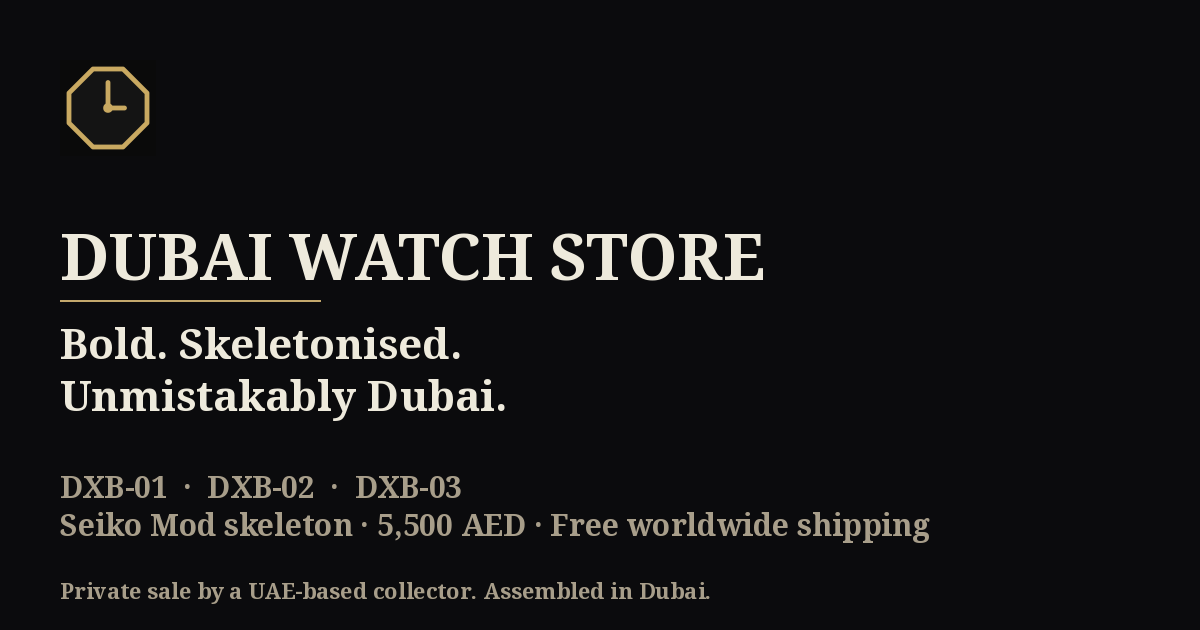
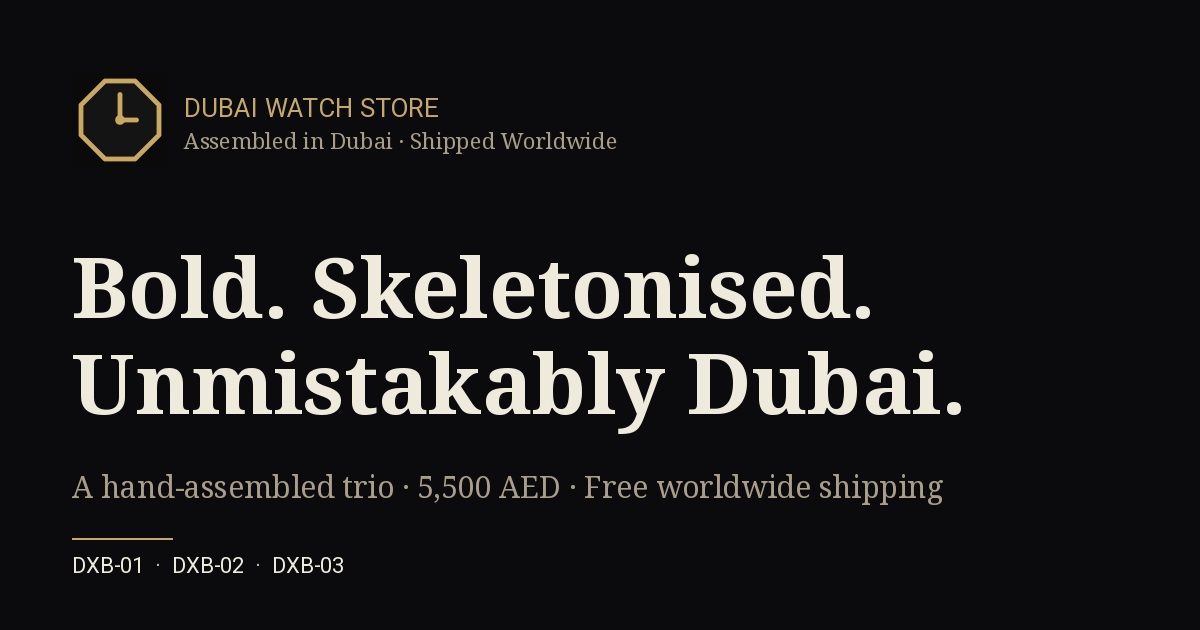
copy: strip Seiko brand references — trademark hygiene
Rewrite hero subtitle, about body, product brand fields, meta/OG/Twitter
descriptions, Organization JSON-LD, llms.txt summary and blog posts to
drop «Seiko Mod» and «TMI (Seiko Group)» language. Product brand now
reads «Dubai Series»; movements referenced by neutral TMI part numbers
(NH70/71/72A). Regenerate public/og.png without the previous
«Seiko Mod skeleton» tagline; add reproducible scripts/gen-og.py.

We do not sell Seiko-branded product; the phrase «Seiko Mod» is a
community label that risks trademark scrutiny on marketing surfaces.

Changed region(s): [[0.0308, 0.3619, 0.8017, 0.6937], [0.0308, 0.754, 0.8017, 0.9651], [0.0308, 0.0905, 0.5242, 0.2714]]

diff --git a/content/blog/posts.ts b/content/blog/posts.ts
@@ -27,7 +27,7 @@ export const posts: Post[] = [
 
 ## The Case
 
-The concept rests on a recognisable, brutal design — integrated bracelet, textured case, presence on the wrist. But the true soul of each piece lives beneath a transparent case back. For this trio we chose high-precision Japanese movements from **TMI (Seiko Group)**, respected by watch enthusiasts worldwide for uncompromising reliability.
+The concept rests on a recognisable, brutal design — integrated bracelet, textured case, presence on the wrist. But the true soul of each piece lives beneath a transparent case back. For this trio we chose high-precision Japanese automatic movements from **TMI (Time Module Inc., Japan)**, respected by watch enthusiasts worldwide for uncompromising reliability.
 
 ## Three Calibers, Three Finishes
 
@@ -46,7 +46,7 @@ This mini-release blurs the line between mass watchmaking and the high art of cu
 
 ## الهيكل
 
-يستند التصميم إلى لغة قوية ومميّزة — سوار مدمج، وعلبة بلمسة نسيجية، وحضور واضح على المعصم. لكن روح كل قطعة تسكن خلف غطاء خلفي شفاف. اخترنا لهذه الثلاثية حركات يابانية عالية الدقة من **TMI (Seiko Group)**، تحظى بتقدير هواة الساعات حول العالم لموثوقيتها التي لا تتزحزح.
+يستند التصميم إلى لغة قوية ومميّزة — سوار مدمج، وعلبة بلمسة نسيجية، وحضور واضح على المعصم. لكن روح كل قطعة تسكن خلف غطاء خلفي شفاف. اخترنا لهذه الثلاثية حركات يابانية أوتوماتيكية عالية الدقة من **TMI (Time Module Inc.، اليابان)**، تحظى بتقدير هواة الساعات حول العالم لموثوقيتها التي لا تتزحزح.
 
 ## ثلاث حركات. ثلاث لمسات.
 
@@ -77,7 +77,7 @@ This mini-release blurs the line between mass watchmaking and the high art of cu
     body: {
       en: `Every watch in this collection has been chosen by hand, from Dubai. The Journal is where I write about the **movements** inside, the finishing, and the small details worth knowing before you wear one.
 
-This is not a catalogue. It is a slow record of what makes a well-executed Seiko Mod worth its price:
+This is not a catalogue. It is a slow record of what makes a well-executed hand-assembled skeleton worth its price:
 
 - the depth of a good *frosted* finish
 - the tolerances of the [NH72A caliber](https://calibercorner.com/tmi-caliber-nh72a/)
@@ -86,7 +86,7 @@ This is not a catalogue. It is a slow record of what makes a well-executed Seiko
 New notes appear when there is something worth saying. No SEO fluff, no filler.`,
       ar: `اختيرت كل ساعة في هذه المجموعة يدويًا من دبي. هذه المدوّنة مكان لأكتب فيه عن **الحركات** بداخلها، والصياغة، والتفاصيل الصغيرة التي تستحق المعرفة قبل ارتدائها.
 
-هذه ليست فهرسًا. إنها سجل بطيء لما يجعل ساعة Seiko Mod مُتقنة تستحق سعرها:
+هذه ليست فهرسًا. إنها سجل بطيء لما يجعل ساعة مُجمَّعة يدوياً بميناء مكشوف مُتقنة تستحق سعرها:
 
 - عمق لمسة *الصنفرة* الجيدة
 - تفاوتات حركة [NH72A](https://calibercorner.com/tmi-caliber-nh72a/)

diff --git a/app/[locale]/layout.tsx b/app/[locale]/layout.tsx
@@ -24,7 +24,7 @@ export async function generateMetadata({
   return {
     title: 'Dubai Watch Store — Assembled in Dubai, Shipped Worldwide',
     description:
-      'Trio of Seiko Mod skeleton watches (DXB-01/02/03) assembled in Dubai. TMI NH70/71/72A automatics. 5,500 AED · free worldwide tracked shipping.',
+      'Trio of hand-assembled skeleton watches (DXB-01/02/03) built in Dubai on Japanese TMI NH70/71/72A automatics. 5,500 AED · free worldwide tracked shipping.',
     metadataBase: new URL(SITE_URL),
     // Canonical и hreflang для каждой локали — Google больше не считает
     // en/ar «копиями без выбранного каноникала».
@@ -39,7 +39,7 @@ export async function generateMetadata({
     openGraph: {
       title: 'Dubai Watch Store — Bold. Skeletonised. Unmistakably Dubai.',
       description:
-        'A limited trio of Seiko Mod skeleton timepieces. Assembled in Dubai. Free worldwide shipping.',
+        'A limited trio of hand-assembled skeleton timepieces. Built in Dubai. Free worldwide shipping.',
       url: `${SITE_URL}/${locale}`,
       siteName: 'Dubai Watch Store',
       type: 'website',
@@ -49,7 +49,7 @@ export async function generateMetadata({
           url: '/og.png',
           width: 1200,
           height: 630,
-          alt: 'Dubai Watch Store — Seiko Mod skeleton trio assembled in Dubai',
+          alt: 'Dubai Watch Store — hand-assembled skeleton trio built in Dubai',
         },
       ],
     },
@@ -57,7 +57,7 @@ export async function generateMetadata({
       card: 'summary_large_image',
       title: 'Dubai Watch Store',
       description:
-        'A limited trio of Seiko Mod skeleton timepieces. Assembled in Dubai.',
+        'A limited trio of hand-assembled skeleton timepieces. Built in Dubai.',
       images: ['/og.png'],
     },
     verification: {

diff --git a/components/JsonLd.tsx b/components/JsonLd.tsx
@@ -63,7 +63,7 @@ export async function HomeJsonLd({ locale }: { locale: string }) {
       url: SITE_URL,
       logo: `${SITE_URL}/apple-icon.png`,
       description:
-        'Private UAE-based seller of the Dubai Series — a trio of Seiko Mod skeleton timepieces assembled in Dubai.',
+        'Private UAE-based seller of the Dubai Series — a trio of hand-assembled skeleton timepieces built in Dubai on Japanese TMI automatic movements.',
       email: CONTACT.email,
       sameAs: [
         `https://www.instagram.com/${CONTACT.instagram}`,

diff --git a/scripts/gen-og.py b/scripts/gen-og.py
@@ -1,0 +1,44 @@
+#!/usr/bin/env python3
+"""Regenerate public/og.png (1200x630) — no Seiko references."""
+import io
+from pathlib import Path
+
+import cairosvg
+from PIL import Image, ImageDraw, ImageFont
+
+ROOT = Path(__file__).resolve().parent.parent
+ICON_SVG = ROOT / "app" / "icon.svg"
+OUT = ROOT / "public" / "og.png"
+
+W, H = 1200, 630
+BG = (11, 11, 13)
+FG = (238, 234, 220)
+MUTED = (168, 158, 138)
+GOLD = (196, 168, 108)
+
+SERIF_R = "/system/fonts/NotoSerif-Regular.ttf"
+SERIF_B = "/system/fonts/NotoSerif-Bold.ttf"
+SANS = "/system/fonts/Roboto-Regular.ttf"
+
+img = Image.new("RGB", (W, H), BG)
+d = ImageDraw.Draw(img)
+
+png_bytes = cairosvg.svg2png(url=str(ICON_SVG), output_width=96, output_height=96)
+icon = Image.open(io.BytesIO(png_bytes)).convert("RGBA")
+img.paste(icon, (72, 72), icon)
+
+d.text((184, 92), "DUBAI WATCH STORE", font=ImageFont.truetype(SANS, 26), fill=GOLD)
+d.text((184, 128), "Assembled in Dubai · Shipped Worldwide", font=ImageFont.truetype(SERIF_R, 22), fill=MUTED)
+
+d.text((72, 240), "Bold. Skeletonised.", font=ImageFont.truetype(SERIF_B, 84), fill=FG)
+d.text((72, 336), "Unmistakably Dubai.", font=ImageFont.truetype(SERIF_B, 84), fill=FG)
+
+d.text((72, 470), "A hand-assembled trio · 5,500 AED · Free worldwide shipping",
+       font=ImageFont.truetype(SERIF_R, 30), fill=MUTED)
+
+d.line([(72, 538), (172, 538)], fill=GOLD, width=2)
+d.text((72, 552), "DXB-01  ·  DXB-02  ·  DXB-03",
+       font=ImageFont.truetype(SANS, 22), fill=FG)
+
+img.save(OUT, "PNG", optimize=True)
+print(f"wrote {OUT}  ({OUT.stat().st_size // 1024} KB)")
